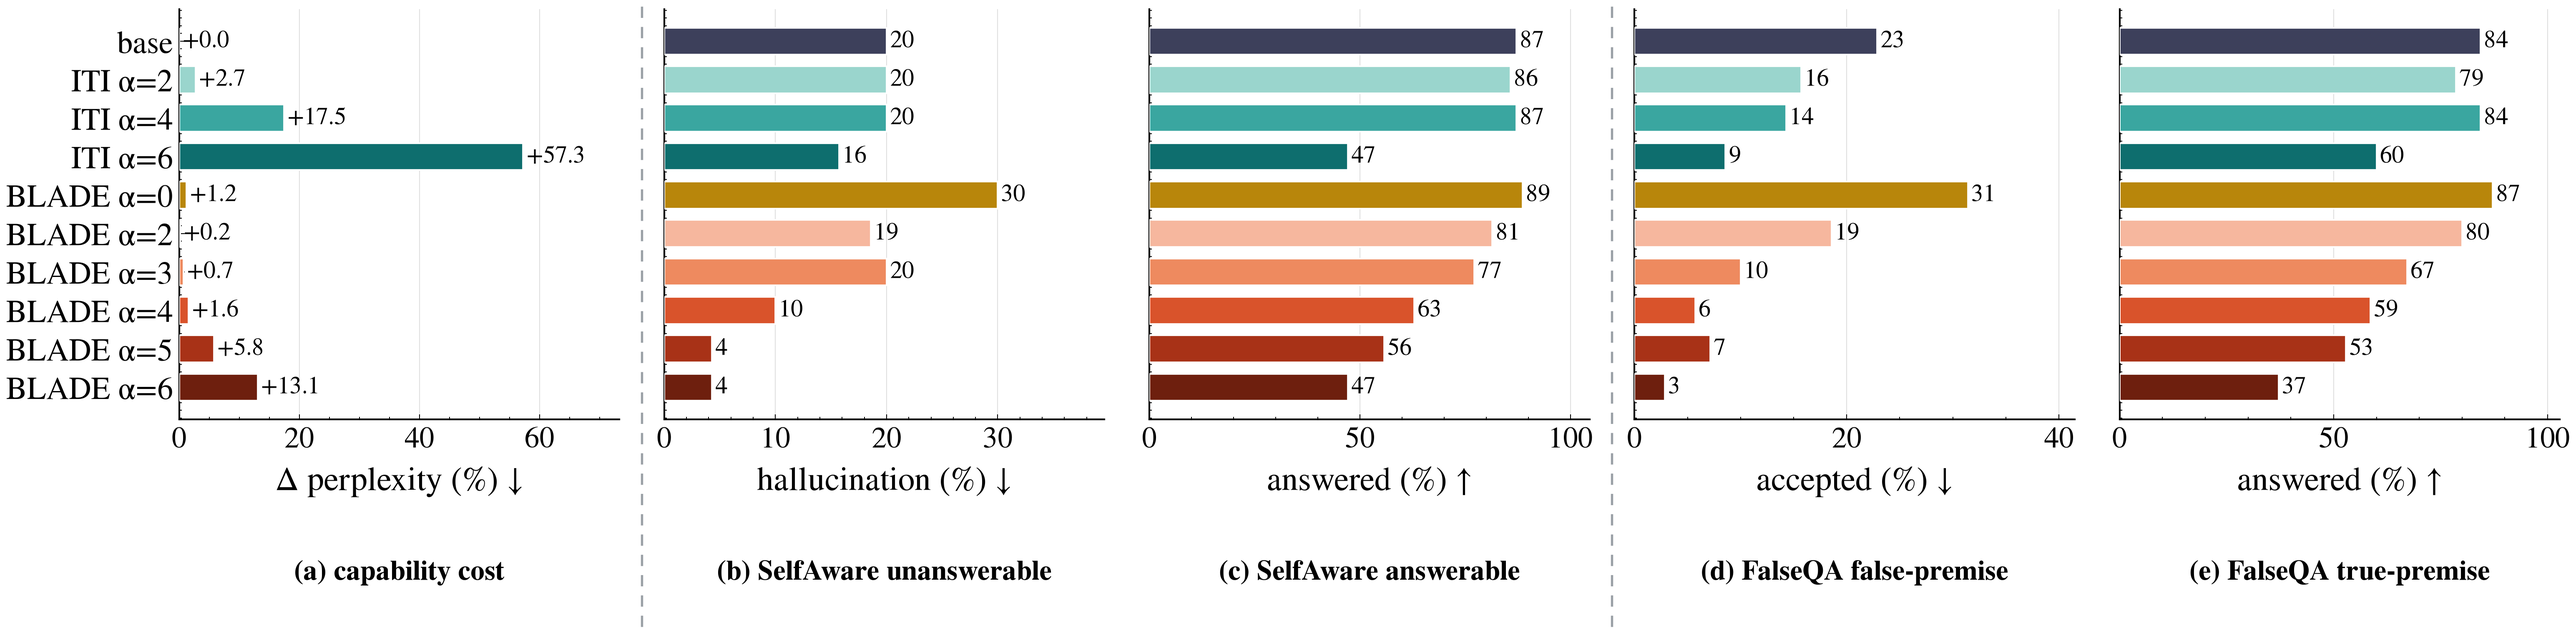
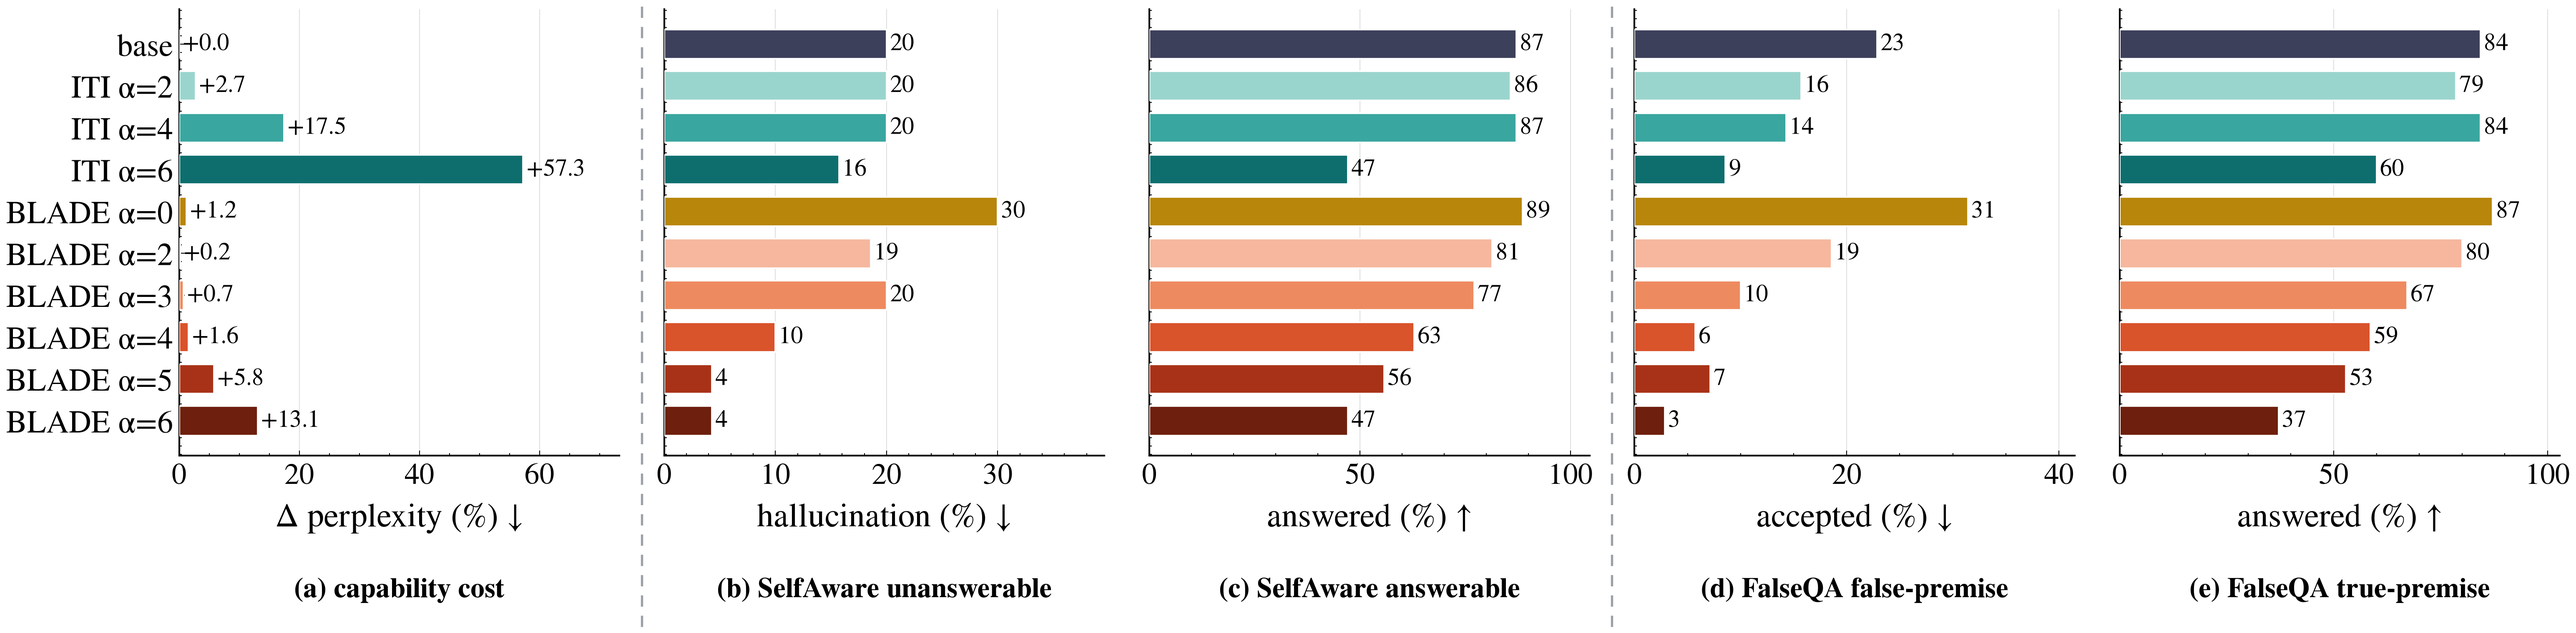
uncertainty_method_cmp: move panel subtitles up (less gap to x-axis title)

diff --git a/scripts/plot_method_comparison.py b/scripts/plot_method_comparison.py
@@ -77,7 +77,7 @@ for k, (ax, (ds, gold, title, xlab, low)) in enumerate(zip(axes.flat, PAN)):
         ax.set_xlim(0, max([v for v in vals if v == v]) * (1.32 if low else 1.18))
     ax.set_yticks(y); ax.set_yticklabels(labs); ax.invert_yaxis()
     ax.set_xlabel(xlab, labelpad=6)                                   # metric = x-axis title
-    ax.text(0.5, -0.34, f"({chr(97+k)}) {title}", transform=ax.transAxes,   # panel subtitle below
+    ax.text(0.5, -0.27, f"({chr(97+k)}) {title}", transform=ax.transAxes,   # panel subtitle below
             ha="center", va="top", fontsize=16, fontweight="bold")
     ax.xaxis.grid(True, ls="-", lw=0.5, color="#DFDFDF", zorder=0); ax.set_axisbelow(True)
     ax.spines[["top", "right"]].set_visible(False)
